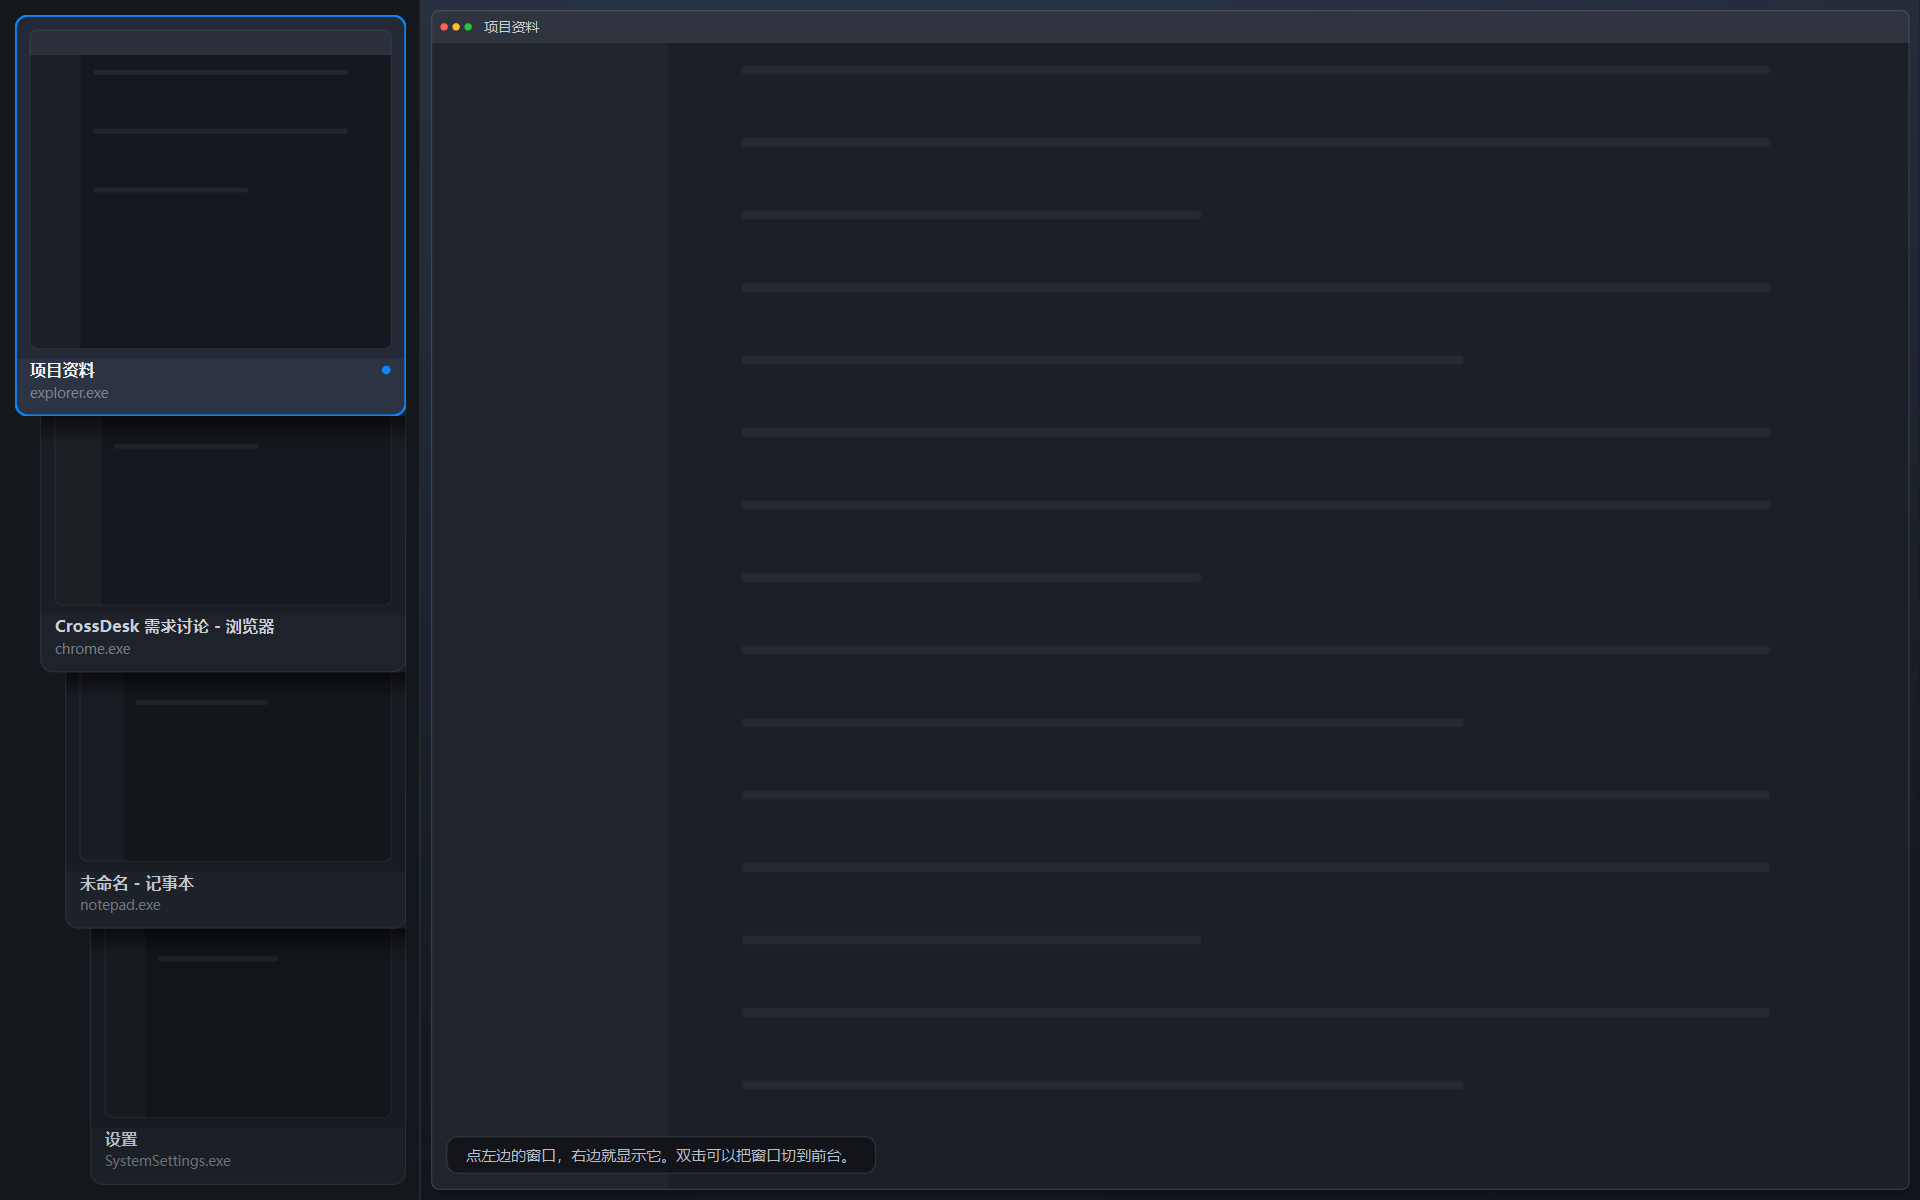
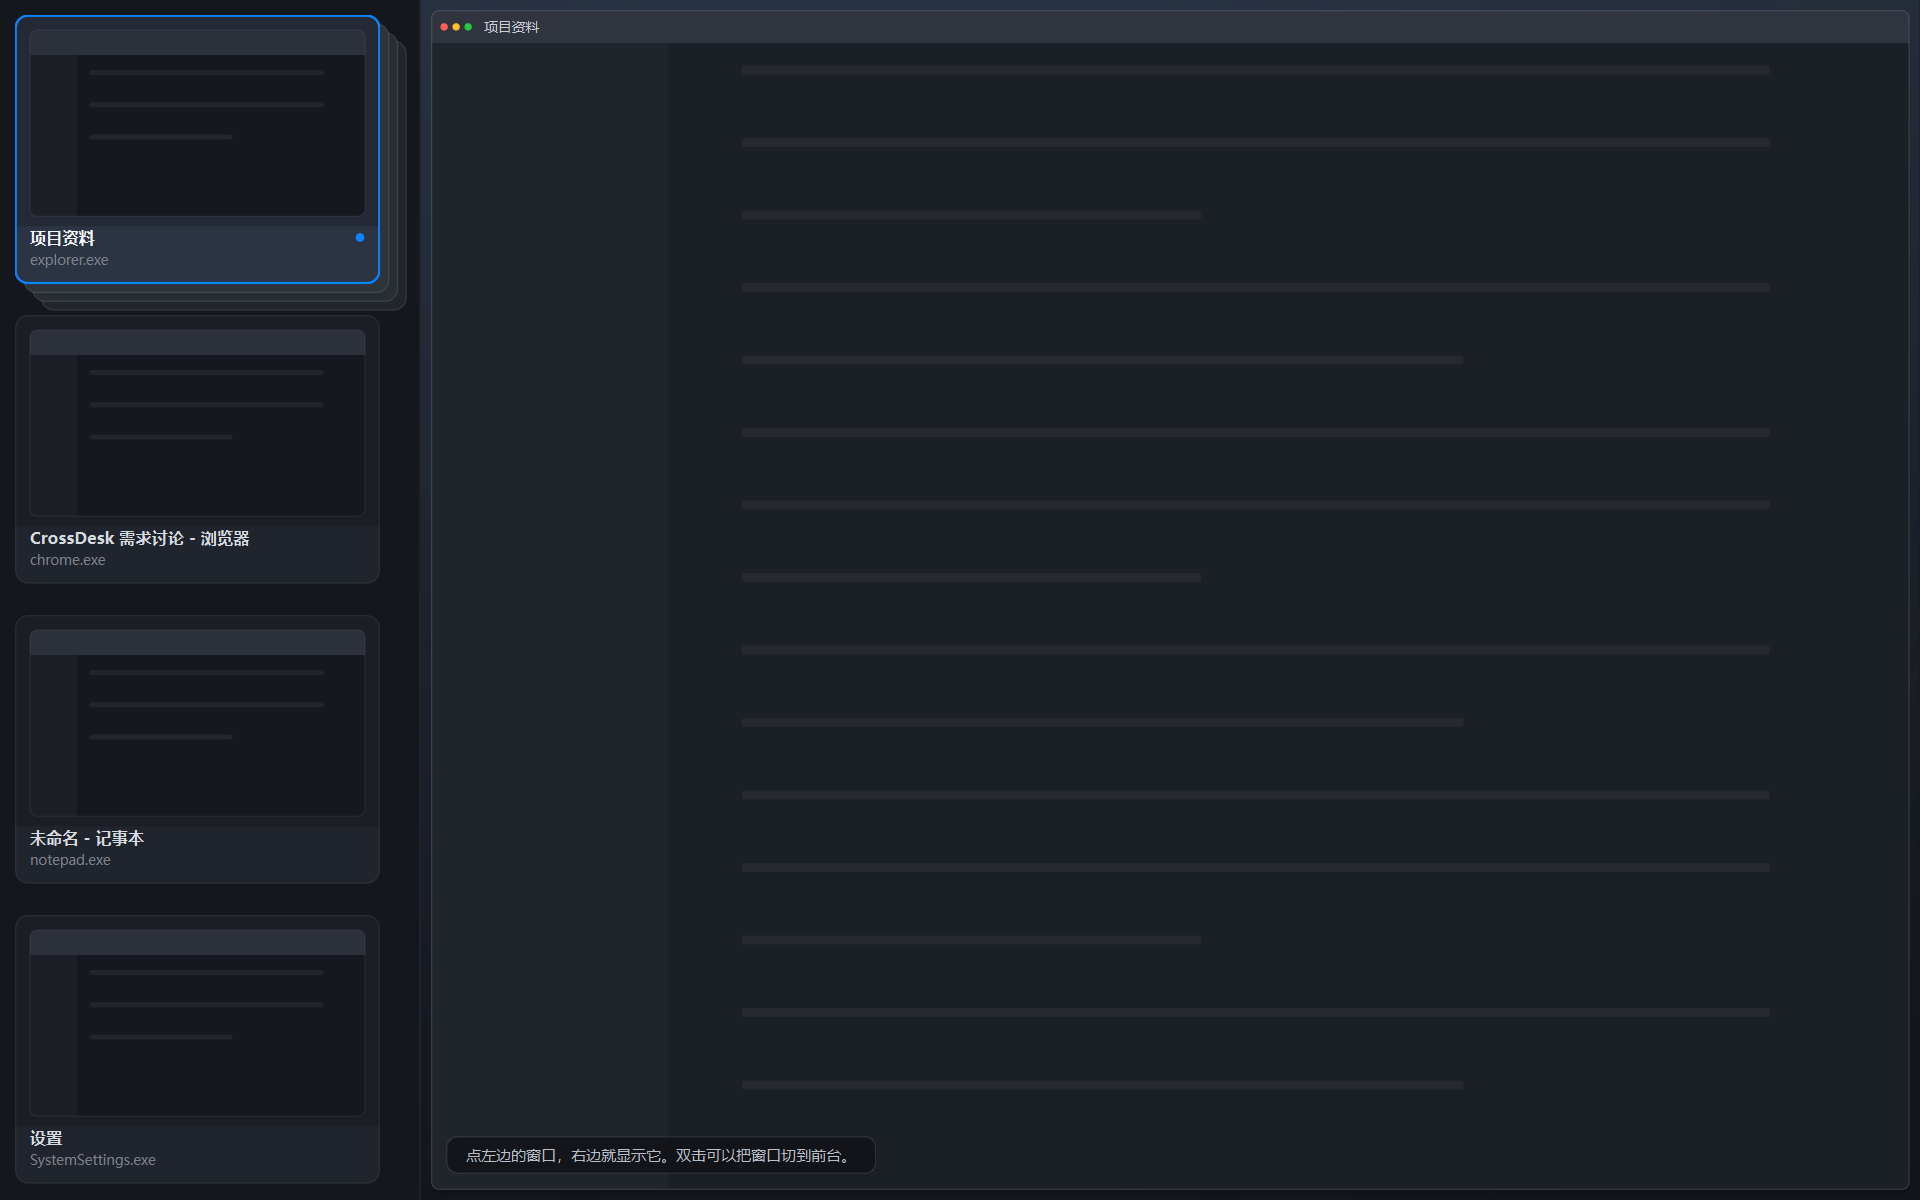
Fill the left column with four cards and stack shadows behind the first
四张以内回到平铺：每张等分高度，正好把左栏填满。但平铺看起来像一个列表，
不像一摞窗口，所以给第一张背后垫三层影子界面——不是第五张卡，只是三张
往右下错开 7px 的圆角板，越远越暗。

- 影子画在 CardStack::paintEvent 里：子控件永远画在父控件上面，所以它自动
  被卡片盖住，只露出右边和下边两条边，不用自己算裁剪
- 四张统一缩窄 21px，右边缘才齐；只缩第一张的话它会比下面三张窄一截
- 卡片之间的缝 25px，比影子错开的 21px 宽 4px，影子底下才露得出来
- cardIndexAt 认得影子：点它等于点第一张，否则那块三角点了没反应
- 五张起仍是斜叠，promote / 压缩档一行没动
- ui_smoke 46 项（平铺填满 / 三层影子 / 点影子选中第一张 / 三张也有影子）
- 讲解卡新增「第一张背后的影子界面」一节，截图同步

diff --git a/src/ui/window_cards.cpp b/src/ui/window_cards.cpp
@@ -14,9 +14,19 @@ namespace crossdesk::ui {
 namespace {
 
 constexpr int kMargin = 12;
-constexpr int kGap = 10;
 constexpr int kTextHeight = 46;
 constexpr int kCardRadius = 10;
+
+// 平铺最多铺几张。再多，每张就只剩一条缝了，不如叠起来。
+constexpr int kMaxTiled = 4;
+
+// 第一张卡背后的影子界面：几层、每层往右下错开多少。
+constexpr int kShadowLayers = 3;
+constexpr int kShadowStep = 7;
+// 影子错开的总量。卡片右侧让出这么宽给它，卡片之间也留这么宽的缝；
+// 缝再宽 4px，是让影子底下也能露出一点，不然被下一张完全盖住。
+constexpr int kShadowSpan = kShadowLayers * kShadowStep;
+constexpr int kTileGap = kShadowSpan + 4;
 
 const QColor kAccent(0x0a, 0x84, 0xff);
 
@@ -288,6 +298,28 @@ void CardStack::paintEvent(QPaintEvent*) {
     QPainter painter(this);
     // 左栏自己一层底色，和右边的桌面画面分开，像任务栏挂在一块面板上。
     painter.fillRect(rect(), QColor(0x14, 0x17, 0x1c));
+
+    // ---- 第一张卡背后的影子界面 ----
+    // 不是真实窗口，只是几张往右下错开的圆角板，压在第一张下面。
+    // 它的作用只有一个：让人看出这一摞是有厚度的，不是孤零零一张卡。
+    // 画在父控件上，所以一定在子控件（卡片）下面，只露出右下那条边。
+    if (m_shadowLayers > 0 && !m_cards.isEmpty()) {
+        painter.setRenderHint(QPainter::Antialiasing, true);
+        const QRect base = m_cards.first()->geometry();
+        // 由远及近画：最远的最暗、也最靠右下，近的压在它上面。
+        for (int i = m_shadowLayers; i >= 1; --i) {
+            const int offset = i * kShadowStep;
+            QPainterPath layer;
+            layer.addRoundedRect(QRectF(base).translated(offset, offset), kCardRadius, kCardRadius);
+            // 亮度随层数递减：远处退进背景里，近的明显一点，叠出厚度。
+            const int tone = 0x21 + (m_shadowLayers - i) * 7;
+            painter.fillPath(layer, QColor(tone, tone + 5, tone + 11));
+            painter.setBrush(Qt::NoBrush);
+            painter.setPen(QPen(QColor(255, 255, 255, 30), 1));
+            painter.drawPath(layer);
+        }
+    }
+
     painter.setPen(QColor(0x24, 0x28, 0x30));
     painter.drawLine(width() - 1, 0, width() - 1, height());
 }
@@ -304,15 +336,22 @@ void CardStack::mouseDoubleClickEvent(QMouseEvent* event) {
 void CardStack::relayout(bool animated) {
     const int count = m_windows.size();
     if (count == 0) {
+        m_shadowLayers = 0;
+        update();  // 把上一轮留下的影子擦掉
         return;
     }
 
-    const int width = this->width() - kMargin * 2;
     // 上下也留出同样的边：贴着窗口边缘会被切掉圆角和边框，看起来像溢出而不是铺满。
     const int inner = this->height() - kMargin * 2;
 
-    // 一张的时候没得叠，整栏给它；两张起就斜着叠——参考图里本来就是叠着的。
-    m_stacked = count > 1;
+    // 四张以内平铺填满；五张起平铺就只剩一条缝，改成斜着叠。
+    m_stacked = count > kMaxTiled;
+    m_compact = false;
+
+    // 四张等宽。右边统一让出影子错开的那一条，四张的右边缘才对得齐；
+    // 只缩第一张的话，它会比下面三张窄一截，看起来像没铺满。
+    const int shadowRoom = (!m_stacked && count > 1) ? kShadowSpan : 0;
+    const int width = this->width() - kMargin * 2 - shadowRoom;
 
     int cardHeight = inner;
     int step = inner;
@@ -336,25 +375,34 @@ void CardStack::relayout(bool animated) {
         // 每深一张往右错一点，像一摞卡片投出来的重影；右边缘对齐，左边一级级往里收。
         // 横向总量压在栏宽的 40% 以内，否则最后几张会瘦成一条；压缩档不斜。
         shift = m_compact ? 0 : qBound(4, width * 40 / 100 / (count - 1), 20);
-    } else {
-        m_compact = false;
+    } else if (count > 1) {
+        // 平铺：几等分，缝隙也算在高度里，最后一张正好落到下边。
+        // 缝比影子错开的总量再宽一点，第一张的影子落下来时才露得出一个底边。
+        cardHeight = qMax(60, (inner - kTileGap * (count - 1)) / count);
+        step = cardHeight + kTileGap;
     }
 
     m_step = step;
     m_shift = shift;
+    // 平铺时才有影子界面。斜叠本身就是一摞，再垫影子只是多此一举。
+    m_shadowLayers = (!m_stacked && count > 1) ? kShadowLayers : 0;
 
+    const bool dim = m_stacked && !m_compact;
     for (int i = 0; i < count; ++i) {
         const QRect target(kMargin + i * shift, kMargin + i * step, width - i * shift, cardHeight);
         WindowCard* card = m_cards.at(i);
         card->setCompact(m_compact);
-        card->setCoverEdge(cardHeight - step);
-        card->setDepth(m_compact ? 0 : i);
+        card->setCoverEdge(dim ? cardHeight - step : 0);
+        card->setDepth(dim ? i : 0);
         if (animated && card->geometry() != target) {
             auto* anim = new QPropertyAnimation(card, "geometry", card);
             anim->setDuration(160);
             anim->setEasingCurve(QEasingCurve::OutCubic);
             anim->setStartValue(card->geometry());
             anim->setEndValue(target);
+            // 影子是按第一张卡的当前 geometry 画的，卡片在动，父控件也得跟着重画，
+            // 否则影子会停在原地，看起来像脱离了卡片。
+            connect(anim, &QPropertyAnimation::valueChanged, this, [this] { update(); });
             anim->start(QAbstractAnimation::DeleteWhenStopped);
         } else {
             card->setGeometry(target);
@@ -363,8 +411,9 @@ void CardStack::relayout(bool animated) {
     // i=0 最后 raise，所以它压在最上面：视觉上"第一张在最前面"。
     for (int i = count - 1; i >= 0; --i) {
         m_cards.at(i)->raise();
-        m_cards.at(i)->setOverlapped(!m_compact && i > 0);
+        m_cards.at(i)->setOverlapped(dim && i > 0);
     }
+    update();
 }
 
 int CardStack::cardIndexAt(const QPoint& pos) const {
@@ -405,6 +454,16 @@ int CardStack::cardIndexAt(const QPoint& pos) const {
     for (int i = 0; i < m_cards.size(); ++i) {
         if (m_cards.at(i)->isVisible() && m_cards.at(i)->geometry().contains(pos)) {
             return i;
+        }
+    }
+
+    // 点在影子界面上：那不是别的窗口，就是第一张卡垫出来的厚度，算点第一张。
+    // 不认这块的话，右下角一小片点了没反应，像坏了一样。
+    if (m_shadowLayers > 0 && !m_cards.isEmpty()) {
+        const QRect shadow =
+            m_cards.first()->geometry().adjusted(0, 0, kShadowSpan, kShadowSpan);
+        if (shadow.contains(pos)) {
+            return 0;
         }
     }
     return -1;

diff --git a/tests/ui_smoke.cpp b/tests/ui_smoke.cpp
@@ -115,12 +115,23 @@ int main(int argc, char* argv[]) {
     QCoreApplication::processEvents();
     const QVector<crossdesk::ui::WindowItem> windows = service.windows();
 
-    // ---- 左栏：四张卡斜着叠起来 ----
+    // ---- 左栏：四张卡平铺填满，第一张背后垫着影子 ----
     check(stack->cardCount() == 4, "左栏有四张窗口卡");
-    check(stack->isStacked(), "四个窗口也是斜着叠起来的，不平铺");
-    check(!stack->isCompact(), "四张还没压到只剩标题");
-    check(stack->stackedShift() > 0, "叠的时候左右错开");
+    check(!stack->isStacked(), "四个窗口平铺，不叠");
+    check(!stack->isCompact(), "四张都完整显示，没有压成标题条");
+    check(stack->stackedShift() == 0, "平铺不左右错开");
+    check(stack->shadowLayers() == 3, "第一张卡背后垫了三层影子界面");
     check(window.selectedWindow() == windows.first().id, "启动时默认选中第一个窗口");
+
+    if (stack->cardAt(0) && stack->cardAt(3)) {
+        check(stack->cardAt(0)->y() == 12, "第一张贴着上边距");
+        check(stack->cardAt(3)->y() + stack->cardAt(3)->height() <= stack->height() - 12,
+              "最后一张贴着下边距，四张把整条栏填满");
+        check(stack->cardAt(0)->width() == stack->cardAt(3)->width(), "四张一样宽");
+        check(stack->cardAt(3)->y() > stack->cardAt(0)->y(), "从上往下排");
+        check(stack->width() - stack->cardAt(0)->geometry().right() - 1 >= 20,
+              "第一张右边留出了影子错开的空间，影子不会被裁掉");
+    }
 
     // ---- 右栏：只显示一个窗口，且铺满 ----
     check(visiblePaneCount(canvas) == 1, "右栏只显示一个窗口");
@@ -131,6 +142,22 @@ int main(int argc, char* argv[]) {
     check(window.selectedWindow() == windows.at(1).id, "点第二张卡就选中它");
     check(shownWindow(canvas) == windows.at(1).id, "右栏跟着换成第二张");
     check(visiblePaneCount(canvas) == 1, "换窗口后右栏仍然只有一个窗口");
+
+    // ---- 影子界面不是第五个窗口，点它等于点第一张 ----
+    if (stack->cardAt(0)) {
+        const QRect first = stack->cardAt(0)->geometry();
+        // 落在第一张右下角外面的那条缝里：卡片管不到，影子管得到。
+        const QPoint onShadow(first.right() + 6, first.bottom() + 6);
+        QMouseEvent press(QEvent::MouseButtonPress, QPointF(onShadow), Qt::LeftButton,
+                          Qt::LeftButton, Qt::NoModifier);
+        QMouseEvent release(QEvent::MouseButtonRelease, QPointF(onShadow), Qt::LeftButton,
+                            Qt::NoButton, Qt::NoModifier);
+        QCoreApplication::sendEvent(stack, &press);
+        QCoreApplication::sendEvent(stack, &release);
+        QCoreApplication::processEvents();
+        check(window.selectedWindow() == windows.first().id, "点第一张背后的影子，等于点第一张");
+        check(stack->cardCount() == 4, "影子不是一张真的卡，卡片数没变");
+    }
 
     // ---- 失败路径：系统窗口拒绝置前 ----
     int settingsIndex = -1;
@@ -153,6 +180,7 @@ int main(int argc, char* argv[]) {
     service.refresh();
     QCoreApplication::processEvents();
     check(stack->cardCount() == 3, "关掉一个窗口后左栏只剩三张卡");
+    check(stack->shadowLayers() == 3, "三张时第一张背后仍然垫着影子");
     check(window.selectedWindow() != closing && window.selectedWindow() != 0,
           "被关掉的窗口自动换成别的，右栏不会空着");
     check(visiblePaneCount(canvas) == 1, "右栏仍有画面");

diff --git a/src/ui/window_cards.h b/src/ui/window_cards.h
@@ -59,9 +59,12 @@ private:
 
 // 左栏的卡片堆。
 //
-// 只有一张时整栏给它；两张起就斜着叠起来——
-// 最前那张完整显示，其余每张往下挪一段、往右错一点，只露出下面那条标题，
-// 像一摞卡片投出来的重影。点哪张哪张就到最前，按住拖动也可以把它抽出来。
+// 四张以内平铺：每张等分高度，正好把整条栏填满，一张也不叠。
+// 为了让人看出"这一摞还有厚度"，第一张卡背后会垫几层影子界面——
+// 不是真实窗口，只是几张略亮、往右下错开的圆角板，像压在下面的一摞纸。
+//
+// 五张起平铺就只剩一条缝了，改成斜着叠：最前那张完整显示，其余每张往下挪一段、
+// 往右错一点，只露出下面那条标题。点哪张哪张就到最前，按住拖动也能把它抽出来。
 // 窗口多到连一条标题都排不下时，退化成一条条标题（`isCompact()`）。
 class CardStack : public QWidget {
     Q_OBJECT
@@ -75,6 +78,8 @@ public:
 
     int cardCount() const { return m_cards.size(); }
     bool isStacked() const { return m_stacked; }
+    // 第一张卡背后垫了几层影子界面（0 = 没垫，只在平铺时才有）。
+    int shadowLayers() const { return m_shadowLayers; }
     // 相邻两张的间距（叠影时就是每张露出来的那一条有多高）。
     int stackedStep() const { return m_step; }
     // 每深一张往右错开多少像素（斜着叠的那个斜度）。
@@ -109,6 +114,7 @@ private:
     bool m_compact = false;
     int m_step = 0;
     int m_shift = 0;
+    int m_shadowLayers = 0;
 
     int m_pressIndex = -1;
     QPoint m_pressPos;

diff --git a/docs/notes/c-mvp-ui.md b/docs/notes/c-mvp-ui.md
@@ -11,11 +11,11 @@
 | `src/ui/crossdesk_service.h` | 边界 | UI 与核心之间唯一的抽象，4 个方法 + 2 个信号 |
 | `src/ui/fake_service.*` | 假数据 | 默认 4 个窗口；`--fake-many` 给 8 个，`--fake-count N` 想看几档看几档 |
 | `src/ui/live_service.*` | 真数据 | 调 A 的扫描器读真实窗口，命令走 A 的接口 |
-| `src/ui/window_cards.*` | 左栏 | 一张窗口卡 + 会叠起来的卡片堆（点击换前、拖动抽出） |
+| `src/ui/window_cards.*` | 左栏 | 一张窗口卡 + 卡片堆（四张以内平铺、第一个背后垫影子；多了斜着叠） |
 | `src/ui/preview_widgets.*` | 右栏 | 一个窗口铺满画面的画布；另留了"桌面全览 / 两列"两种画法 |
 | `src/ui/layout_math.*` | 布局 | 等宽 / 60:40 的纯函数，B 的实现替换点（当前没有调用点） |
 | `src/ui/main_window.*` | 界面 | 全屏两栏、选中、快捷键、动画、失败反馈 |
-| `tests/ui_smoke.cpp` | 测试 | 37 项断言，无显示器可跑 |
+| `tests/ui_smoke.cpp` | 测试 | 46 项断言，无显示器可跑 |
 
 ## 五个必须能讲清的点
 
@@ -61,7 +61,8 @@
 run-fake.bat
 ```
 
-1. 左栏四张卡斜着叠在一起：第一张完整，其余露出画面的一条和下面那行标题。
+1. 左栏四张卡从上到下平铺，把整条栏填满。注意第一张的右下角：它背后垫着三层影子，
+   像压着一摞纸。点影子，选中的是第一张。
 2. 点第二张 → 右栏换成它，卡片描蓝边。
 3. `Ctrl+Enter`（或双击卡片）→ 目标窗口被切到前台。
 4. 点「设置」再定位 → 红字提示被系统拒绝。
@@ -85,9 +86,9 @@ crossdesk.exe --fake-count 32
 
 ## 界面结构（2026-10-20 卡片版）
 
-四个窗口，斜着叠成重影（`--fake`）：
+四个窗口，平铺填满左栏，第一张背后垫着影子（`--fake`）：
 
-![四个窗口斜着叠](screenshots/overview-cards-2026-10-20.png)
+![四个窗口平铺，第一张背后有影子](screenshots/overview-cards-2026-10-20.png)
 
 八个窗口，叠得更密（`--fake-many`）：
 
@@ -112,17 +113,18 @@ crossdesk.exe --fake-count 32
 ```
 
 - **无边框 + `showFullScreen()`**：这不是一个"应用窗口"，是盖在桌面上的一层总览。
-- **左栏**：斜着叠。最前那张完整显示，其余每张往下挪一段、往右错一点，
-  只露出下面那条标题——像一摞卡片投出来的重影。只有一个窗口时整栏给它。
+- **左栏**：四张以内平铺，每张等分高度，正好把整条栏填满；第一张背后垫三层影子。
+  五张起才改成斜着叠（见「窗口更多时」）。只有一个窗口时整栏给它。
 - **右栏**：只画选中的那一个窗口，铺满整块区域（`showSingle()` 给的矩形就是整个可用区域）。
 - 状态条浮在画面左下角，不占布局。
 
 四个必须讲清的决定：
 
-1. **为什么一进来就是叠着的，不是平铺**
-   参考图里那几个窗口本来就是互相压着的：只露出标题，一眼能看到"还有哪些窗口"，
-   又不用把每个都缩到看不清。四张平铺之后每张的画面区只剩一条，反而更难认。
-   叠的密度由 `step` 控制，窗口越多叠得越紧（见下一节）。
+1. **为什么四个是平铺的，还要在第一个背后垫影子**
+   四个窗口是常态——一屏上同时在用的就那么几个。平铺之后每张都看得到画面，
+   挑起来最快。但平铺看起来像"一个列表"，不像"一摞窗口"：没有"这些是被同一层总览
+   管着"的感觉。所以给第一张垫三层影子，把厚度补回来。影子不是第五张卡，
+   点它等于点第一张（见下一节）。
 
 2. **为什么叠影露出的是"下面那条字"**
    卡片结构是"上面画面、下面文字"。叠起来时上面那张盖住下面那张的上半部分，
@@ -135,6 +137,35 @@ crossdesk.exe --fake-count 32
 4. **为什么刷新时右栏不重放淡入**
    `showSelected(bool animate)` 里，刷新路径传 false。否则每次 Ctrl+R 都会闪一下，
    而刷新本身并没有换窗口。
+
+## 第一张背后的影子界面
+
+四个窗口平铺之后，左栏像"四行列表"。影子界面补的是"这一摞有厚度"的感觉：
+第一张卡背后垫三层圆角板，每层往右下错开 7px，越远越暗。
+
+```
+ ┌──────────────────┐
+ │                  │▓
+ │    第一张卡       │▓▓   三层影子，各错开 7px
+ │                  │▓▓▓
+ └──────────────────┘▓▓▓
+   ▓▓▓▓▓▓▓▓▓▓▓▓▓▓▓▓▓▓▓
+    ▓▓▓▓▓▓▓▓▓▓▓▓▓▓▓▓▓
+     ▓▓▓▓▓▓▓▓▓▓▓▓▓▓▓
+```
+
+三条实现上的约束：
+
+1. **影子不是子控件**，画在 `CardStack::paintEvent` 里。子控件永远画在父控件上面，
+   所以影子自动被卡片盖住，只露出右边和下面两条边——不用自己算裁剪区域。
+2. **四张卡统一缩窄 21px**（`kShadowSpan`）。只缩第一张的话，它会比下面三张窄一截，
+   看起来像没铺满；四张一起缩，右边缘还是齐的。
+3. **点影子等于点第一张**。`cardIndexAt()` 给第一张的矩形向右下扩 21px 兜底，
+   不然那块三角点下去没反应，像坏了一样。
+
+卡片之间的缝是 25px（`kTileGap`），比影子错开的 21px 宽 4px——多出来的 4px
+让影子底下也露出一点。不然影子会被下一张完全盖住，只剩右边一条竖边，
+看着像卡片的边框，不像"后面还压着东西"。
 
 ## 窗口更多时
 
